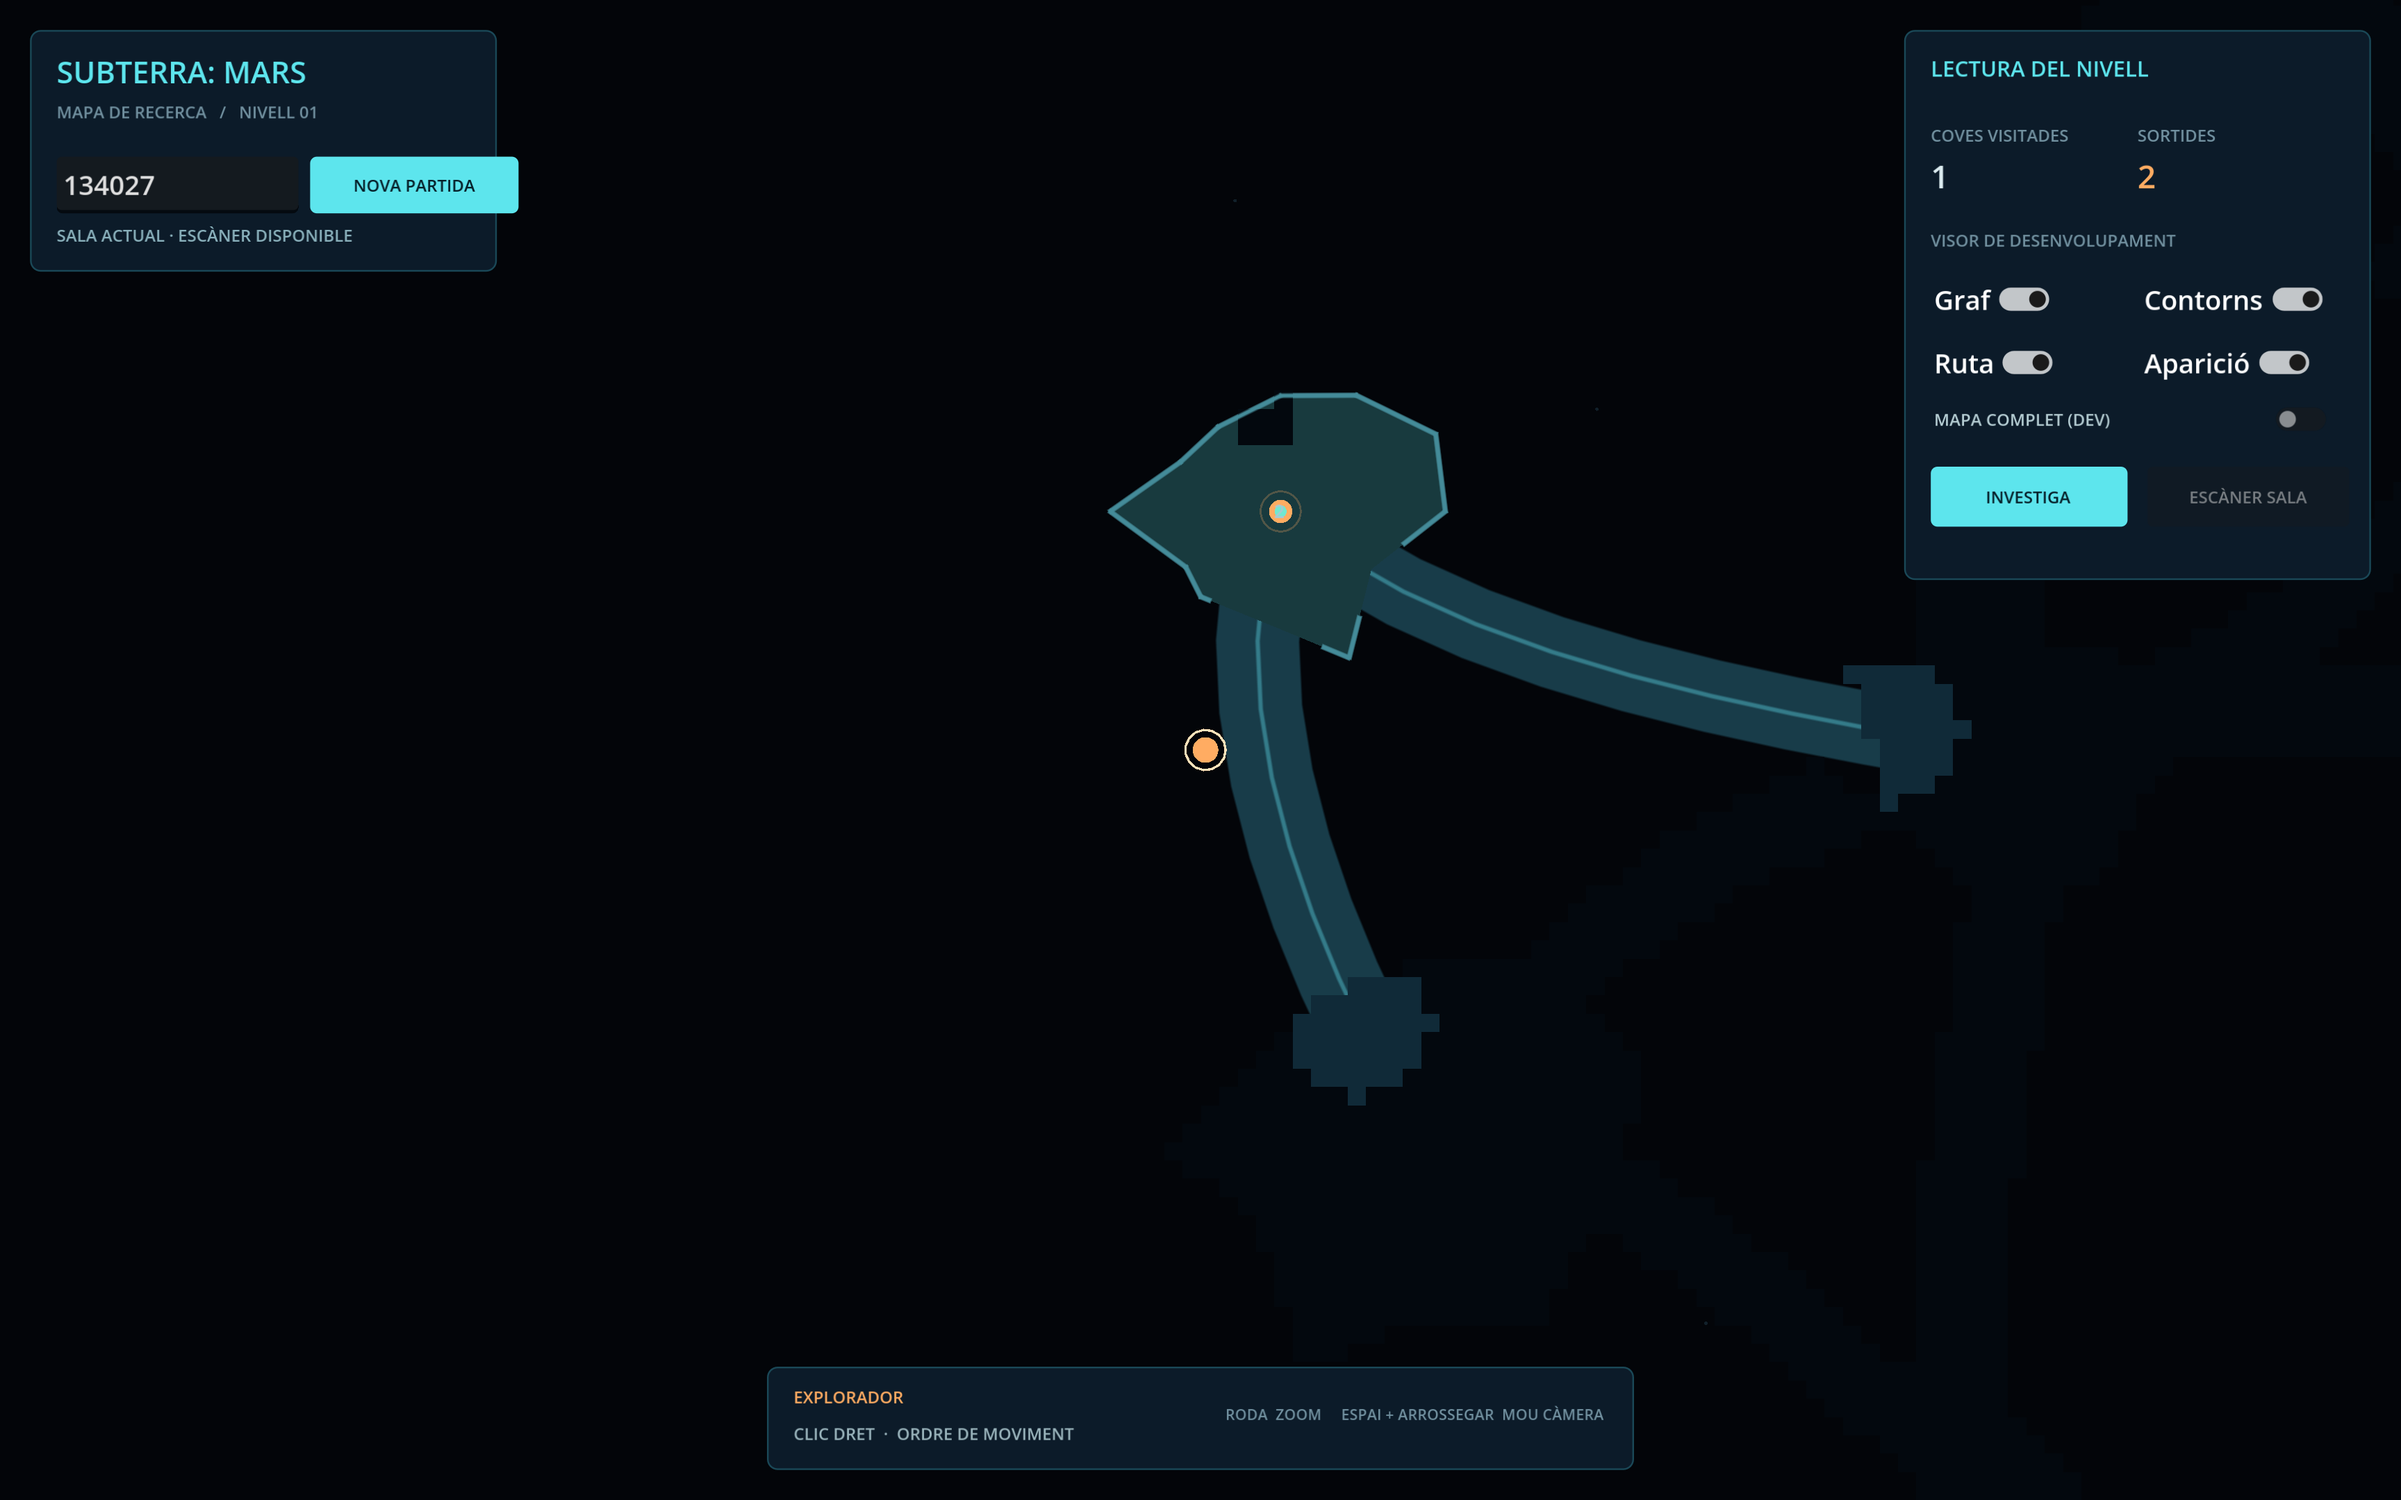
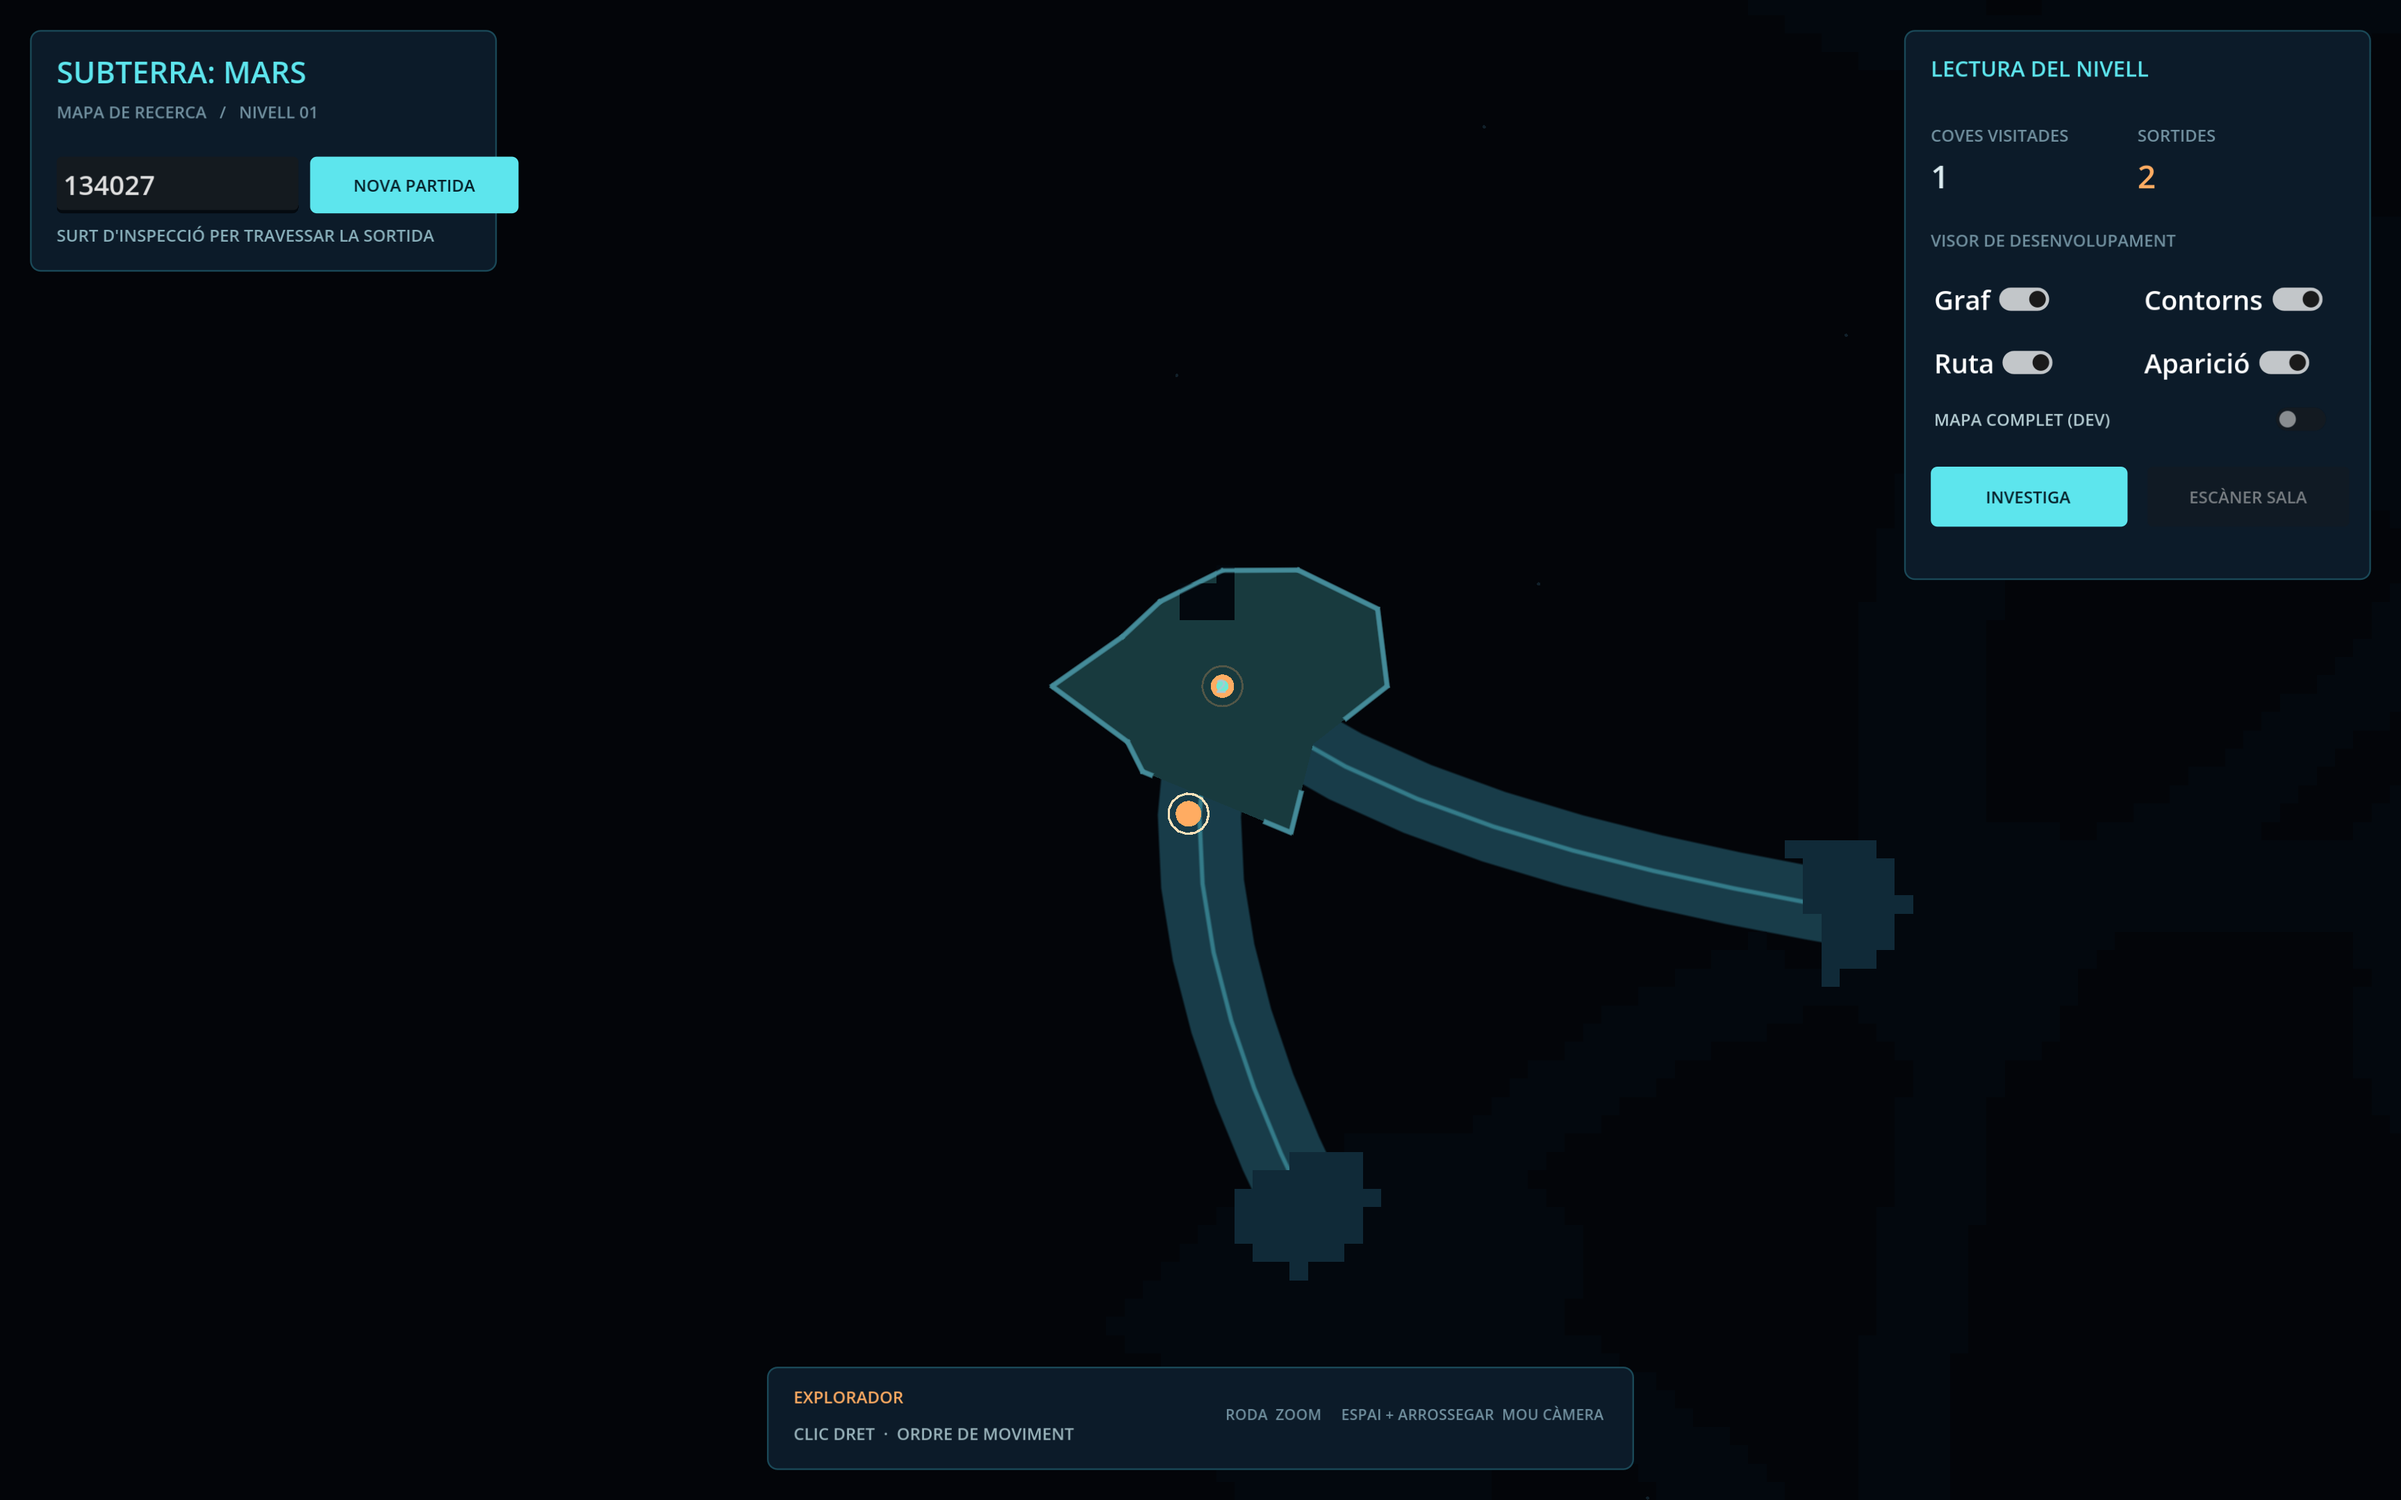
Bloqueja la sortida de sala en inspeccio

Changed region(s): [[0.4375, 0.2481, 0.8438, 0.8685], [0.0312, 0.1551, 0.1562, 0.1861]]

diff --git a/docs/ESTAT_PROJECTE.md b/docs/ESTAT_PROJECTE.md
@@ -194,3 +194,7 @@ S'ha corregit el canvi prematur de vista: després de creuar la paret, el jugado
 ## Sortida manual del mode d'inspecció
 
 S'ha retirat el canvi automàtic de vista en travessar una boca. La inspecció es manté activa mentre el jugador recorre el corredor; en prémer «SURT D'INSPECCIÓ» (o Esc) es torna al mapa general, centrat i amb zoom 1.1. El jugador continua dibuixat al corredor connectat mentre la inspecció és activa. Verificació: `seed_validation.gd` aprovat amb 51/51 llavors; la prova mou l'unitat pel tram, comprova que la vista no canvia automàticament i activa la sortida manual, validant que el túnel queda visible al mapa.
+
+## El jugador ha de canviar de vista abans de sortir de la sala
+
+En mode d'inspecció, la ruta de moviment queda retallada al contorn transitable de la sala seleccionada i cada pas de moviment comprova el límit abans d'actualitzar la posició. Si una ordre intenta travessar una sortida, el jugador s'atura a l'última posició interior i apareix l'avís «SURT D'INSPECCIÓ PER TRAVESSAR LA SORTIDA». Cal prémer «SURT D'INSPECCIÓ» (o Esc) per canviar al mapa; aleshores es pot continuar el moviment pel túnel sense perdre l'estat ni la posició del món. Verificació: `seed_validation.gd` aprovat amb 51/51 llavors, incloent moviment dins la sala, bloqueig del límit, canvi al mapa i moviment posterior. Captura OpenGL revisada a `reports/transicio_mapa_tunel.png`; el personatge roman dins la sala fins al canvi de vista.
